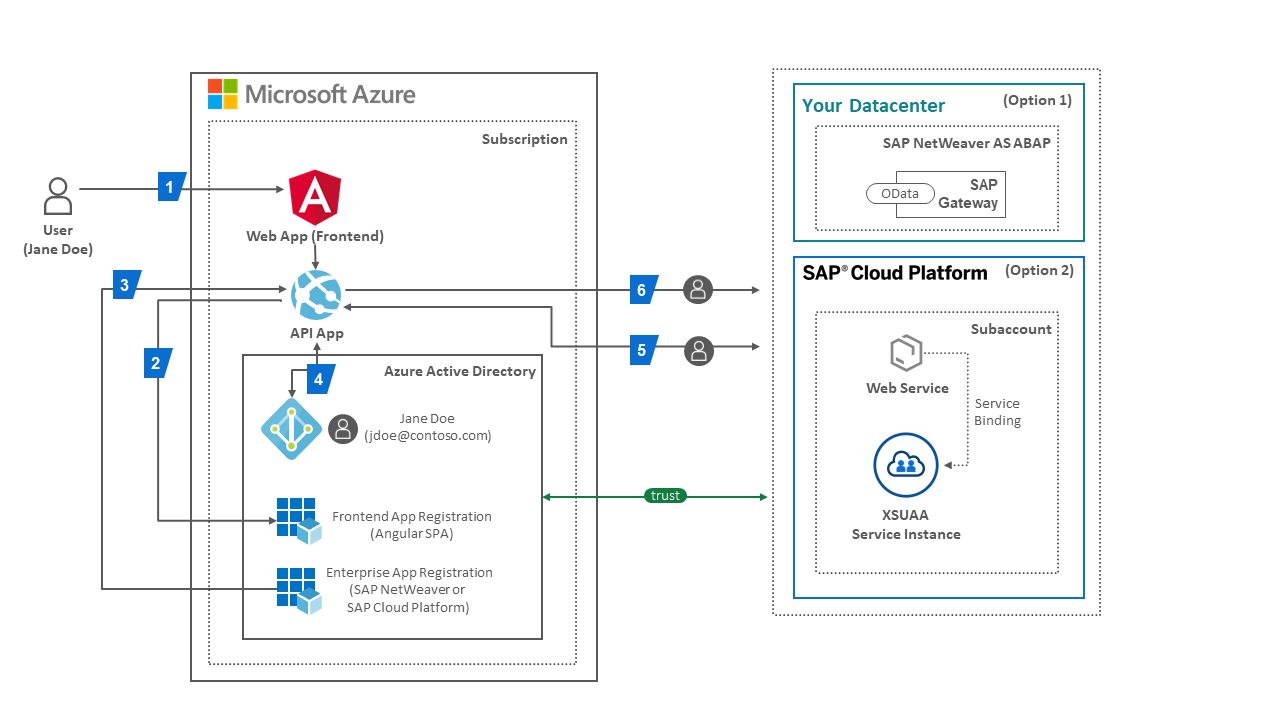
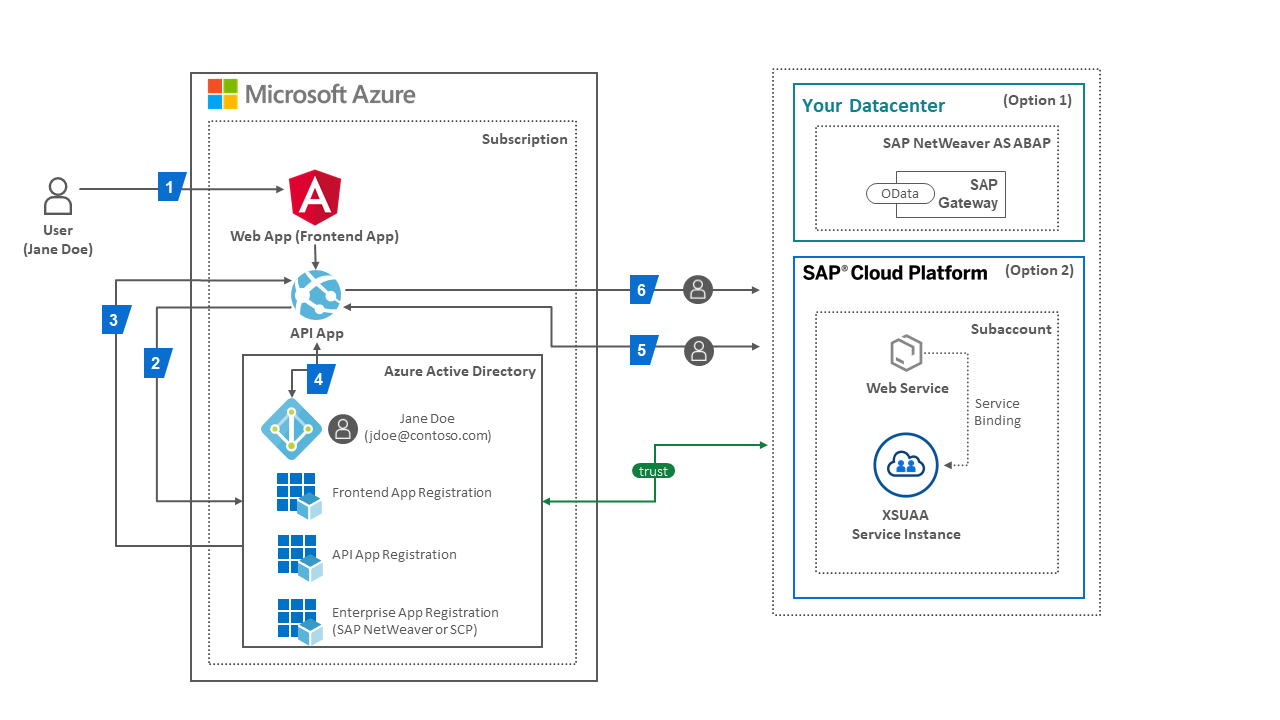
Updated Architecture and minor formattig issues

diff --git a/sap-oauth-saml-flow/README.md b/sap-oauth-saml-flow/README.md
@@ -64,21 +64,21 @@ The goal of this scenario is to connect a Single Page Application (SPA) using th
 The end-to-end process of a user authenticating at the frontend and accessing the user's data in the backend needs the following steps to perform authorization checks:
 
 1. The user (Jane Doe, jdoe@contoso.com) accesses a protected resource of the frontend (written in JavaScript using popular UI frameworks such as Angular) in the web application e.g. an App Service instance in an Azure subscription. The web application’s frontend is registered in the subscription’s Azure AD  tenant and in this scenario it is called Angular FE/Client Application. An API application also registered in the Azure AD tenant simulates the controller logic and delegates authentication to the tenant.
-2. The user's browser is redirected by the API application to the Azure AD tenant’s OAuth authorization endpoint ```(https://login.microsoftonline.com/<TENANT_ID>/oauth2/v2.0/authorize)```. Now the user is entering their credentials and is giving consent to the requested permissions or *scopes* of the API application.
-3. Once the user is successfully authenticated, the user's browser receives the access token in response from the authorization endpoint if the app is registered for the OAuth implicit grant flow in AAD. The OAuth implicit grant flow simplifies obtaining the access token for modern apps that implement an SPA frontend. Otherwise, the application uses the authorization code grant flow, where Azure AD first sends back an authorization code to the application which it redeems for an access token and refresh token by sending a POST request to the tenant’s token endpoint.
+1. The user's browser is redirected by the API application to the Azure AD tenant’s OAuth authorization endpoint ```(https://login.microsoftonline.com/<TENANT_ID>/oauth2/v2.0/authorize)```. Now the user is entering their credentials and is giving consent to the requested permissions or *scopes* of the API application.
+1. Once the user is successfully authenticated, the user's browser receives the access token in response from the authorization endpoint if the app is registered for the OAuth implicit grant flow in AAD. The OAuth implicit grant flow simplifies obtaining the access token for modern apps that implement an SPA frontend. Otherwise, the application uses the authorization code grant flow, where Azure AD first sends back an authorization code to the application which it redeems for an access token and refresh token by sending a POST request to the tenant’s token endpoint.
  ```(https://login.microsoftonline.com/<TENANT_ID>/oauth2/v2.0/token)```
-4. The frontend now has a session established for the user based on the information contained in the access token from Azure AD. This token cannot be used to authorize the call to the backend service in SAP NetWeaver (Option 1) or SAP Cloud Platform (Option 2). Services in SAP only accept access tokens issued by their trusted OAuth Authorization Server. SAP OAuth Authorization Server accept the SAML Bearer Grant type, which allows the frontend in Microsoft Azure to request an OAuth access token from SAP with a SAML 2.0 assertion. Azure AD provides a SAML assertion by receiving an OAuth access token (issued by the Azure AD tenant to the authenticated user before) in exchange. This feature is a [non-standard extension to the On-Behalf-Of (OBO) flow](https://docs.microsoft.com/en-us/azure/active-directory/azuread-dev/v1-oauth2-on-behalf-of-flow#saml-assertions-obtained-with-an-oauth20-obo-flow) in Azure AD.
-5. Then the application is using the SAML 2.0 assertion by sending a POST request to SAP NetWeaver to receive an access token from the OAuth Authorization Server of SAP.
-6. Once the SAML assertion is exchanged with an access token, the final GET or POST request can be send to e.g. the SAP OData Services of SAP NetWeaver using the access token to be able to read or write Data.
+1. The frontend now has a session established for the user based on the information contained in the access token from Azure AD. This token cannot be used to authorize the call to the backend service in SAP NetWeaver (Option 1) or SAP Cloud Platform (Option 2). Services in SAP only accept access tokens issued by their trusted OAuth Authorization Server. SAP OAuth Authorization Server accept the SAML Bearer Grant type, which allows the API App in Microsoft Azure to request an OAuth access token from SAP with a SAML 2.0 assertion. Azure AD provides a SAML assertion by receiving an OAuth access token (issued by the Azure AD tenant to the authenticated user before) in exchange. This feature is a [non-standard extension to the On-Behalf-Of (OBO) flow](https://docs.microsoft.com/en-us/azure/active-directory/azuread-dev/v1-oauth2-on-behalf-of-flow#saml-assertions-obtained-with-an-oauth20-obo-flow) in Azure AD.
+1. The API App is using the SAML 2.0 assertion by sending a POST request to the SAP OAuth Authorization Server to receive an access token from SAP.
+1. Once the SAML assertion is exchanged with an access token, the final GET or POST request can be send to e.g. service from SAP using the access token to authorize tha call on behalf of the logged-in user in Azure.
 
 > [!NOTE] To securely propagate the principal across different platforms and clouds, interoperability at the communication protocol and security token format level are key to the security architecture of the solution. A central standard addressing this scenario for principal propagation is specified in [**RFC 7522**, the Security Assertion Markup Language (SAML) 2.0 Profile for OAuth 2.0 Client Authentication and Authorization Grants](https://tools.ietf.org/html/rfc7522). This extension to the OAuth 2.0 framework combines the interoperable and mature security token format from the SAML 2.0 standard with a simple request/response protocol from OAuth 2.0. Essentially, it describes how a client (in this scenario the web application frontend) accessing an OAuth-protected resource (the backend service) can obtain an OAuth access token from an OAuth authorization server by presenting a valid SAML assertion as the authorization grant. In this process, the user is not required to approve the token issuance at the authorization server, which makes RFC 7522 the ideal candidate for this scenario. Other authorization grants of the OAuth 2.0 framework such as the authorization code ask for the user’s explicit permission to allow a client application to access resources on behalf of the user.
 
 The steps in the scenario can be mapped to the the following technical protocol flow:
 
 1. Authenticate user (Jane Doe, jdoe@contoso.com) and get an *access token (issued by AAD)* with the OAuth2 Implicit Flow.
-2. Exchange the *AAD access token* with a *SAML 2.0 Assertion (issued by AAD)* using the OAuth On Behalf Of Flow.
-3. Acquire an *OAuth access token (issued by SAP OAuth Authorization Server in SCP or SAP NetWeaver*) for accessing e.g the SAP service by exchanging the SAML Assertion using the SAML Bearer Assertion Flow.
-4. Send a GET or POST request to e.g. the SAP OData service with the acquired *OAuth access token (issued by OAuth Authorization Server of SAP*) in the HTTP Authorization Header.
+1. Exchange the *AAD access token* with a *SAML 2.0 Assertion (issued by AAD)* using the OAuth On Behalf Of Flow.
+1. Acquire an *OAuth access token (issued by SAP OAuth Authorization Server in SCP or SAP NetWeaver*) for accessing e.g the SAP service by exchanging the SAML Assertion using the SAML Bearer Assertion Flow.
+1. Send a GET or POST request to e.g. the SAP OData service with the acquired *OAuth access token (issued by OAuth Authorization Server of SAP*) in the HTTP Authorization Header.
 
 From a setup perspective, the scenario requires the following steps:
 

diff --git a/sap-oauth-saml-flow/SAPCloudPlatformConfiguration/README.md b/sap-oauth-saml-flow/SAPCloudPlatformConfiguration/README.md
@@ -152,21 +152,22 @@ You will use Maven to create the Java project structure for your backend service
     ```
 
 1. Replace the file web.xml in the directory `service\application\src\main\webapp\WEB-INF` with the following content:
+
     ```xml
     <?xml version="1.0" encoding="UTF-8"?>
     <web-app xmlns:xsi="http://www.w3.org/2001/XMLSchema-instance"
              xmlns="http://java.sun.com/xml/ns/javaee"
              xsi:schemaLocation="http://java.sun.com/xml/ns/javaee http://java.sun.com/xml/ns/javaee/web-app_3_0.xsd"
              version="3.0" metadata-complete="false">
-    
+
         <session-config>
             <session-timeout>20</session-timeout>
         </session-config>
-    
+
         <login-config>
             <auth-method>XSUAA</auth-method>
         </login-config>
-    
+
         <security-constraint>
             <web-resource-collection>
                 <web-resource-name>Baseline Security</web-resource-name>
@@ -176,12 +177,13 @@ You will use Maven to create the Java project structure for your backend service
                 <role-name>*</role-name>
             </auth-constraint>
         </security-constraint>
-    
+
         <security-role>
             <role-name>Display</role-name>
         </security-role>
     </web-app>
     ```
+
 1. Replace the method `testService` in the file `service\integration-tests\src\test\java\com\contoso\sample\HelloWorldServletTest.java` with the following code snippet:
 
     ```java
@@ -199,10 +201,12 @@ You will use Maven to create the Java project structure for your backend service
 1. Deploy the backend service to your subaccount with the command `cf push`
 1. After successful deployment, check that the service has started with the command `cf apps`
 ![Service status](./img/SCP2.jpg)
-1. Do a quick test and invoke the `url` returned by the previous command in a browser tab. You should see a response **Forbidden**, because the service url requires an authenticated user.
+1. Do a quick test and invoke the `url` returned by the previous command in a browser tab. You should see an error response **HTTP ERROR 401**, because the service url requires an authenticated user.
 
 ## Configuration of role collection
+
 Upon successful deployment of the backend service in SCP, the role and role collection settings for the service must be configured. The role collection is used later in the setup process to assign the permissions to the propagated principal.
+
 1. Open the [SCP Cockpit](https://cockpit.hanatrial.ondemand.com/cockpit) in your browser and login with your account admin. Navigate to your (trial) subaccount and select **Security – Roles** from the left side navigation menu. Click on **Add Using Same Role Template** to create a new role for the `service` application.
 ![Add role](./img/SCP2-1.jpg)
 1. Enter `Viewer` as the new role name and click **Next**. Continue with the configuration of the role attributes, which were defined by the `Viewer` role template in the `xs-security.json` file. In this scenario, the source of each attribute is the identity provider that originally authenticated the user, so Azure AD. Enter the following source attribute mappings:
@@ -218,6 +222,7 @@ Upon successful deployment of the backend service in SCP, the role and role coll
 1. Select **Security – Role Collections** from the navigation menu, and click on **+** on the right to create a new role collection.
 1. Enter a name for the new Role Collection (e.g. `Application User`), click **Create**, and select the new Role Collection from the list. Click on **Edit** and select the newly created Role `Viewer` from the `service` application in the **Role Name** dropdown box. Confirm the changes with **Save**.
     ![Role collection](./img/SCP3-1.jpg)
+
 ## Export of SCP SAML metadata and OAuth client credentials
 
 1. Go back to the subaccount level and select **Security – Trust Configuration** from the navigation menu and click on **SAML Metadata** to export your (trial) subaccount’s service provider (SP) SAML metadata. Remember where the XML-file is saved – it is used later in Azure AD to simplify the trust setup.
@@ -231,6 +236,7 @@ Upon successful deployment of the backend service in SCP, the role and role coll
     ![XSUAA Client Credentials](./img/SCP5.jpg)
 
 ## Setup of the trust relationship to Azure AD
+
 The trust relationship for SAML is bi-directional. In this step, the exported metadata file from Azure AD will be imported into the SCP subaccount to finalize the trust setup.
 
 1. Navigate back to the (trial) subaccount level via the breadcrumb navigation on the top in the SAP Cloud Cockpit, select **Security – Trust Configuration** from the navigation menu, and click **New Trust Configuration**
@@ -243,8 +249,10 @@ Click **Save**.
 1. Finally, select the Role Collection `Application User` created in the previous step from the drop down list, and click **Assign Role Collection**.
 
 ## Next Steps
+
 Now let's test the scenario and jump into the section for setting up [Postman](../PostmanSetup/README.md)
 
 ## Additional resources
+
 - [Tutorial: Azure Active Directory integration with SAP Cloud Platform](https://docs.microsoft.com/en-us/azure/active-directory/saas-apps/sap-hana-cloud-platform-tutorial)
 - [Tutorial: Azure Active Directory single sign-on (SSO) integration with SAP Cloud Platform Identity Authentication](https://docs.microsoft.com/en-us/azure/active-directory/saas-apps/sap-hana-cloud-platform-identity-authentication-tutorial)
